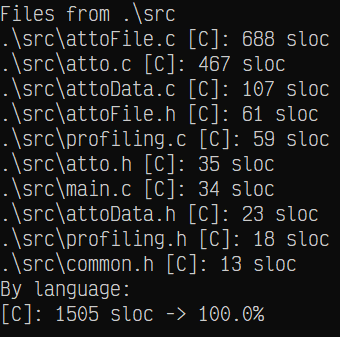
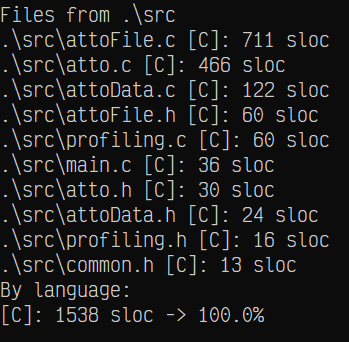
Update info

Changed region(s): [[0.0, 0.0, 0.9706, 0.9792], [0.4706, 0.8902, 0.7941, 0.9496], [0.0, 0.9496, 0.0294, 0.9792]]

diff --git a/src/profiling.h b/src/profiling.h
@@ -3,9 +3,7 @@
 
 #if PROFILING_ENABLE == 1
 
-#include <stdio.h>
-#include <stdarg.h>
-#include <time.h>
+#include "common.h"
 
 void initProfiler(void);
 void writeProfiler(const char * restrict function, const char * restrict format, ...);

diff --git a/src/common.h b/src/common.h
@@ -8,8 +8,8 @@
 #include <windows.h>
 #include <stdio.h>
 #include <stdlib.h>
-#include <stdbool.h>
 #include <string.h>
+#include <stdbool.h>
 #include <stdint.h>
 #include <assert.h>
 

diff --git a/src/atto.h b/src/atto.h
@@ -6,7 +6,6 @@
 
 #define MAX_STATUS 256
 
-
 bool boolGet(uint8_t * restrict arr, size_t index);
 void boolPut(uint8_t * restrict arr, size_t index, bool value);
 

diff --git a/src/profiling.c b/src/profiling.c
@@ -2,7 +2,8 @@
 
 #if PROFILING_ENABLE == 1
 
-#include <stdlib.h>
+#include <time.h>
+#include <stdarg.h>
 
 static FILE * profilingFile = NULL;
 

diff --git a/src/attoFile.h b/src/attoFile.h
@@ -3,9 +3,6 @@
 
 #include "common.h"
 
-#include <stdint.h>
-#include <stdbool.h>
-
 #define ATTO_LNODE_DEFAULT_FREE 10
 
 /*

diff --git a/src/attoData.h b/src/attoData.h
@@ -4,6 +4,7 @@
 #include "common.h"
 #include "attoFile.h"
 
+
 typedef struct attoData_t
 {
 	HANDLE conIn, conOut;

diff --git a/README.md b/README.md
@@ -7,11 +7,11 @@
 Yet another text editor ought to be as simple/small as possible (following the KISS principle). It is purely written in C and
 it's designed to be used solely on Microsoft Windows (relies on Win32 API). MinGW-32 GCC has been used as the compiler.
 
-Currently, my other tool [slocWin32](https://github.com/makuke1234/slocWin32) reports 1505 lines of code for this editor:
+Currently, my other tool [slocWin32](https://github.com/makuke1234/slocWin32) reports 1538 lines of code for this editor:
 
 ![SLOC](./images/sloc.png)
 
-With profiling removed, it amounts to only **1428** lines of code! Very small indeed...
+With profiling removed (-76 sloc), it amounts to only **1462** lines of code! Very small indeed...
 
 
 # Obtaining
